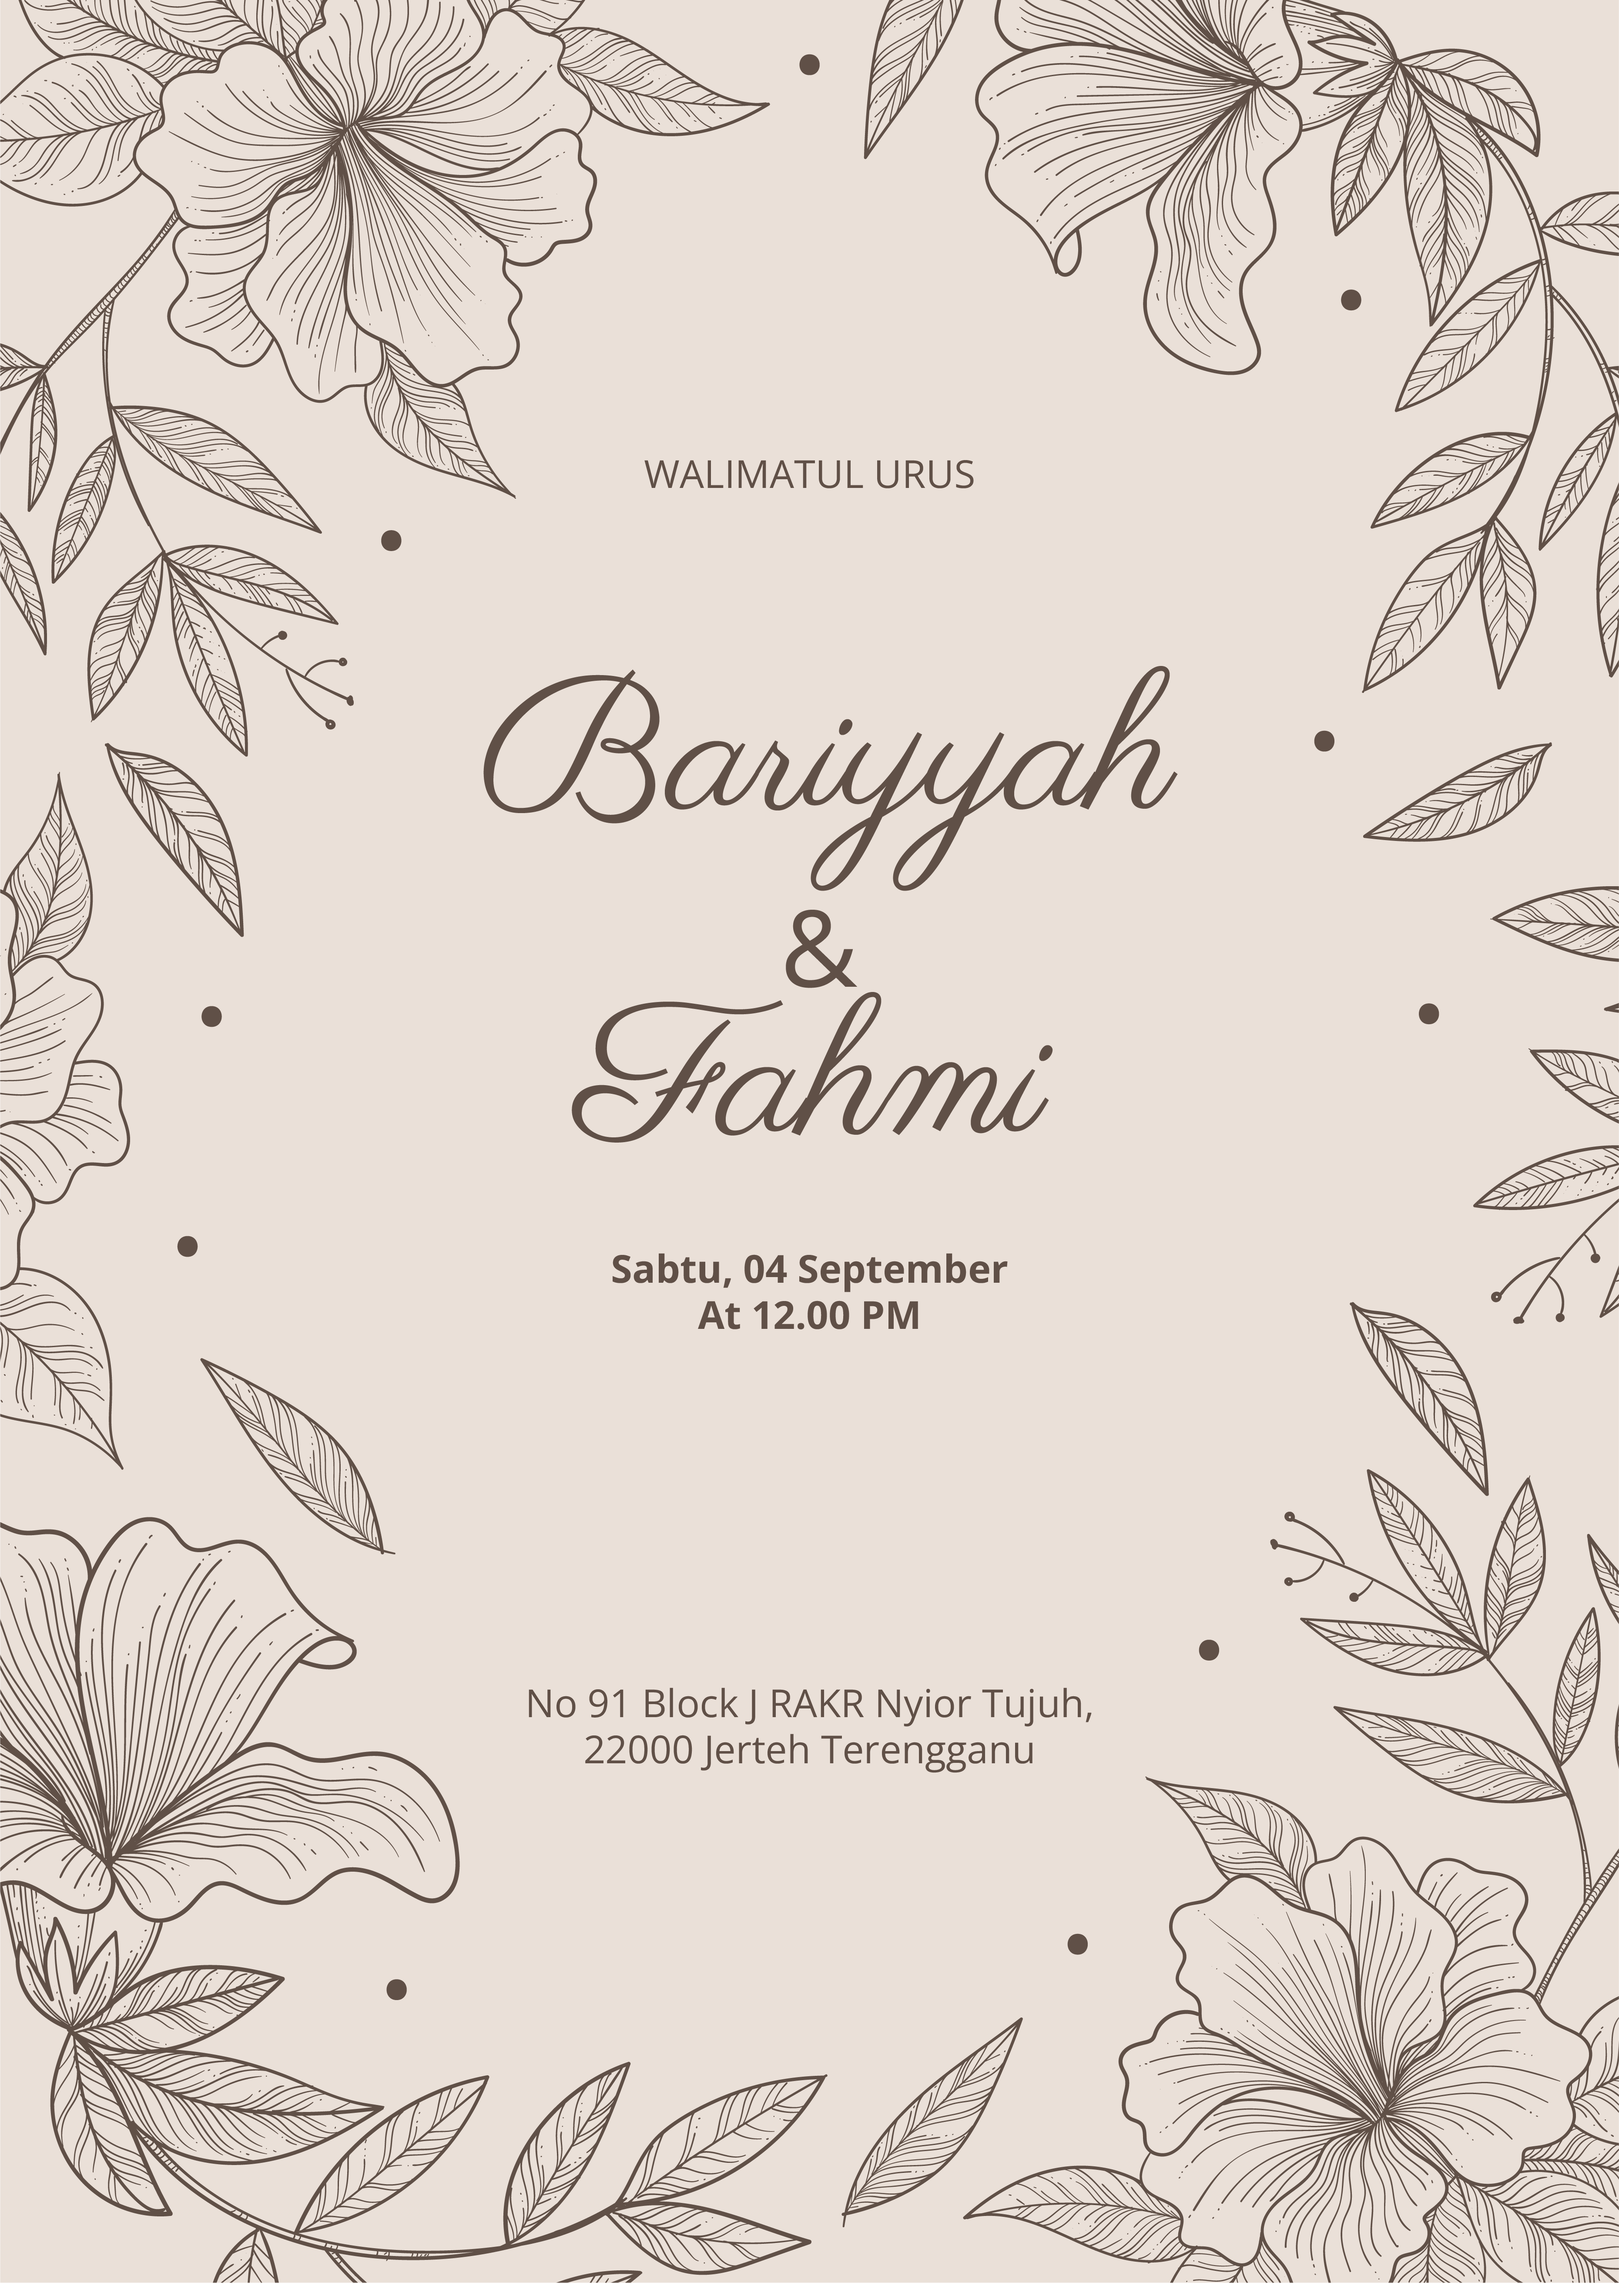
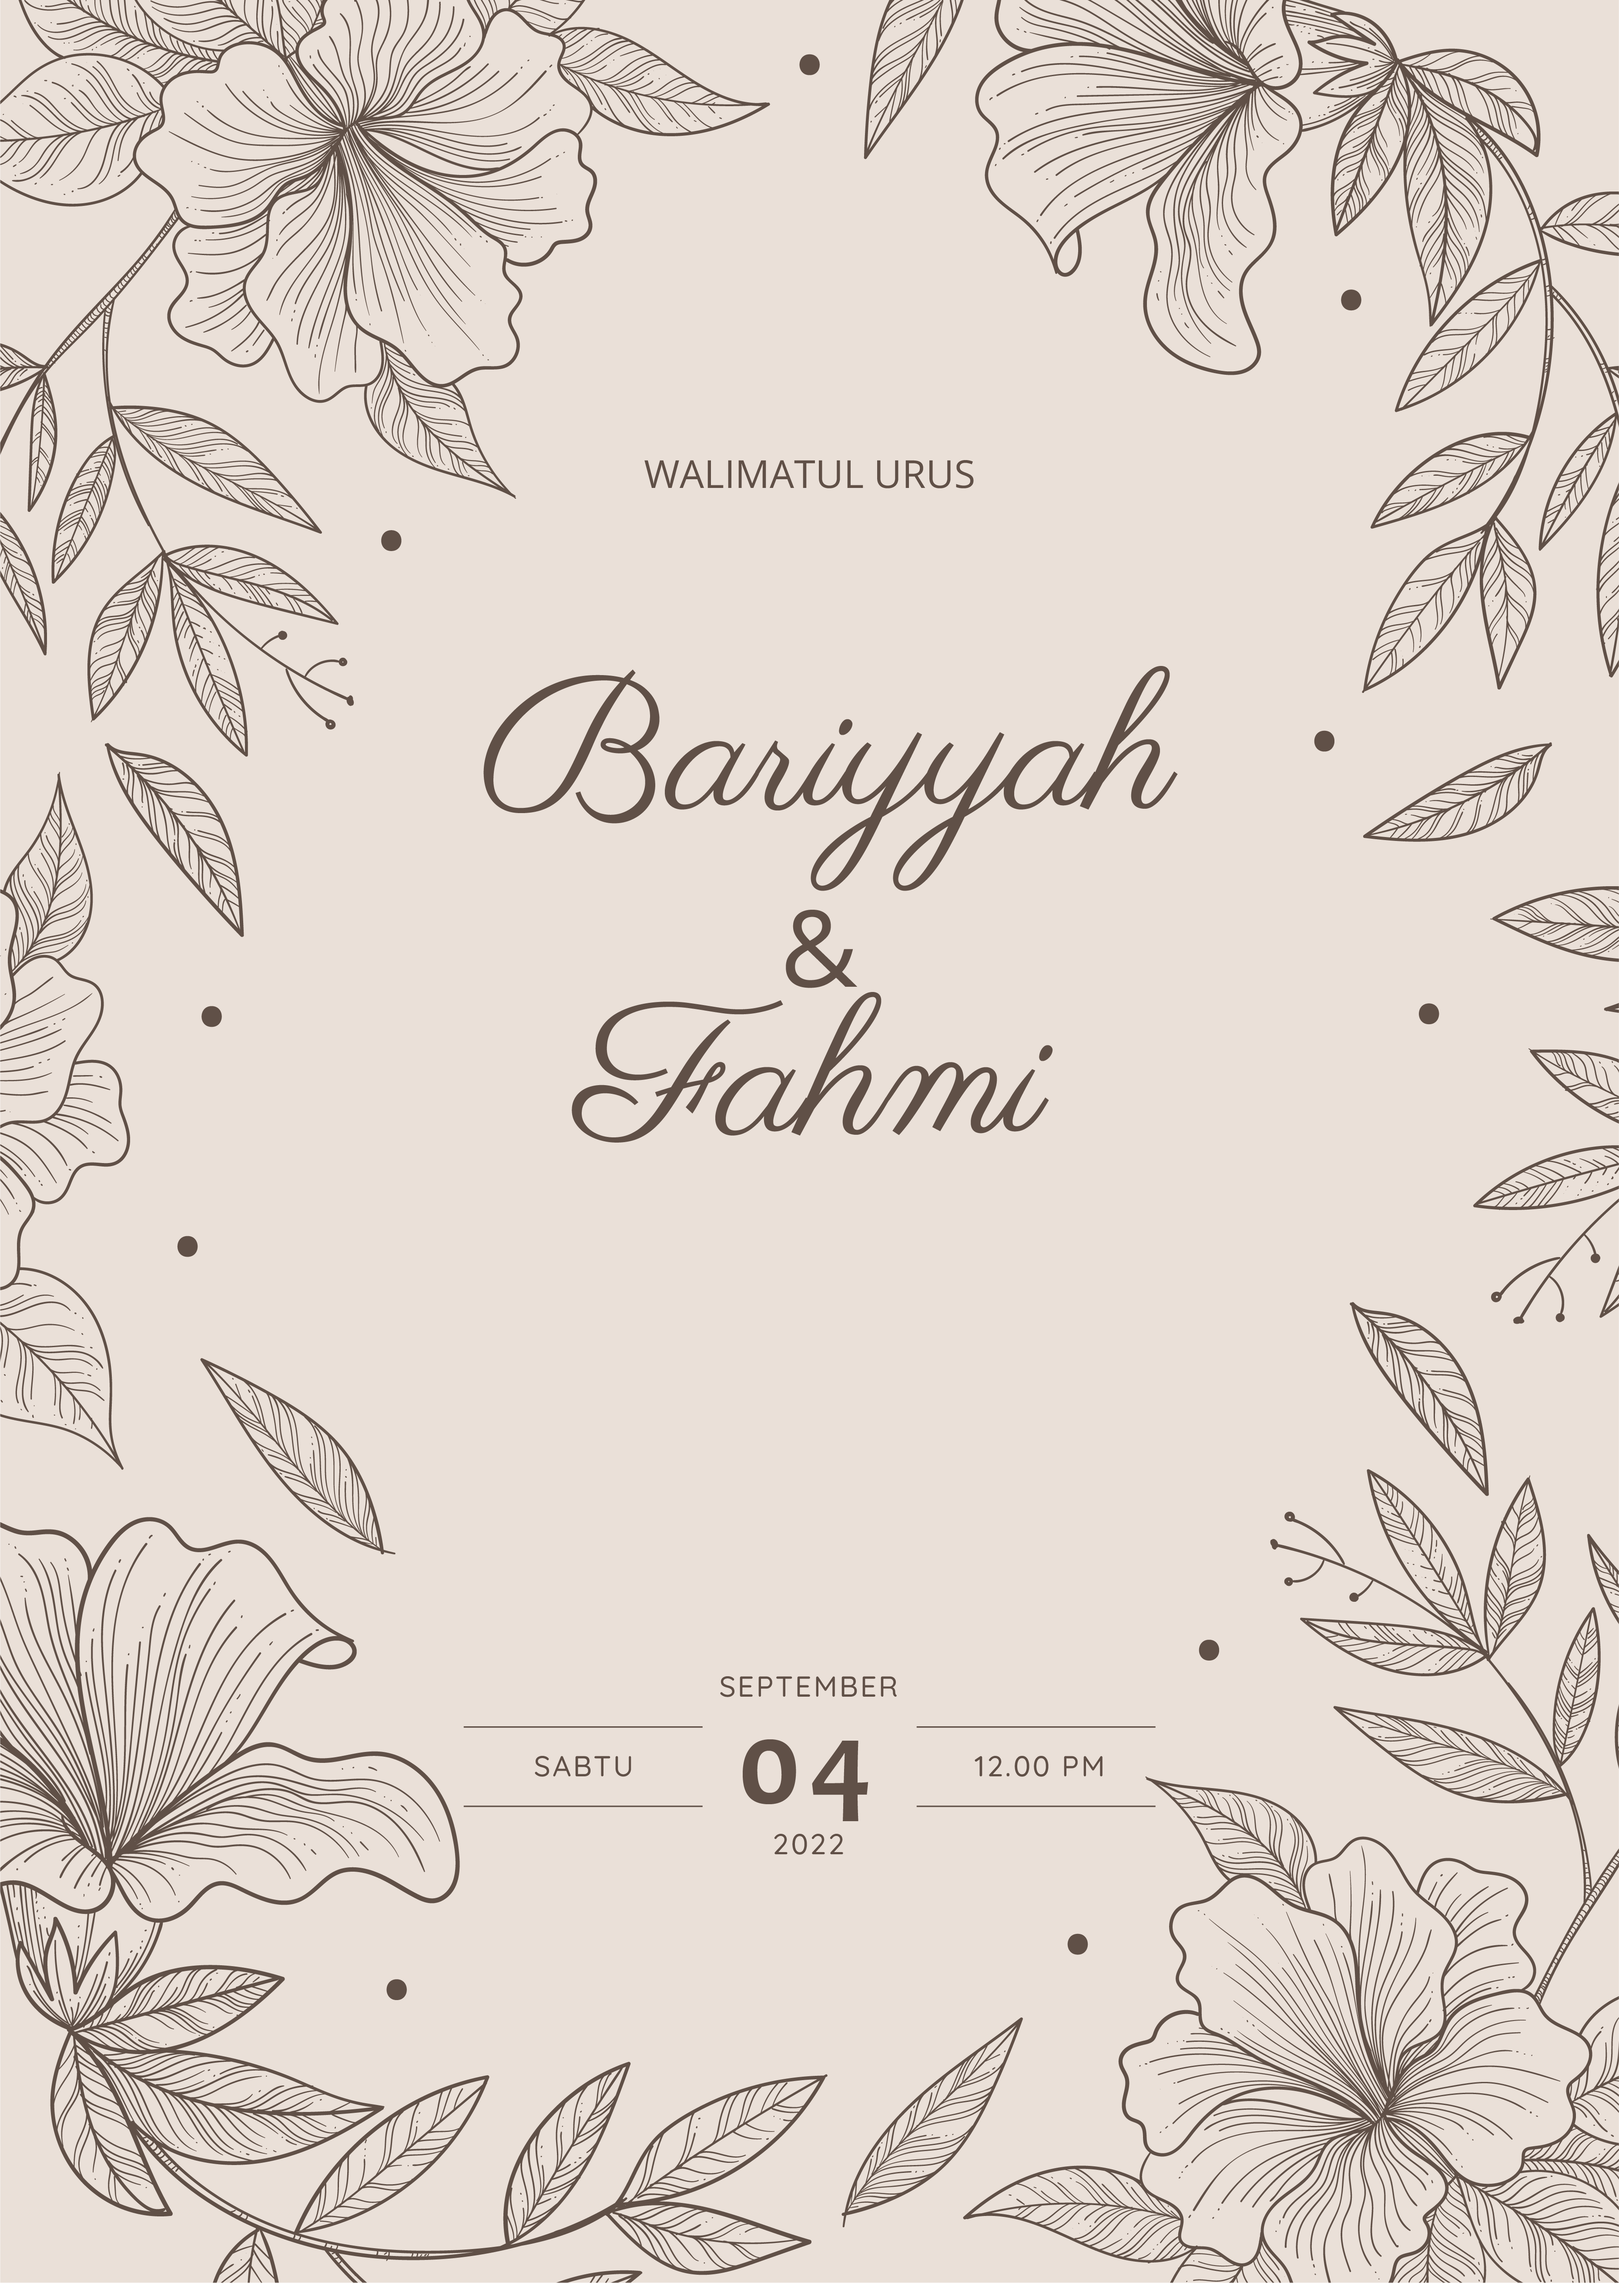
date - img

Changed region(s): [[0.3429, 0.7148, 0.6858, 0.808], [0.4364, 0.5283, 0.6235, 0.5905], [0.3741, 0.5283, 0.4364, 0.5594]]

diff --git a/home.js b/home.js
@@ -30,7 +30,7 @@ $("#kedatangan").change(function () {
 });
 
 function updateTimer() {
-  future = Date.parse("aug 06, 2022 11:30:00");
+  future = Date.parse("sept 04, 2022 12:00:00");
   now = new Date();
   diff = future - now;
 
